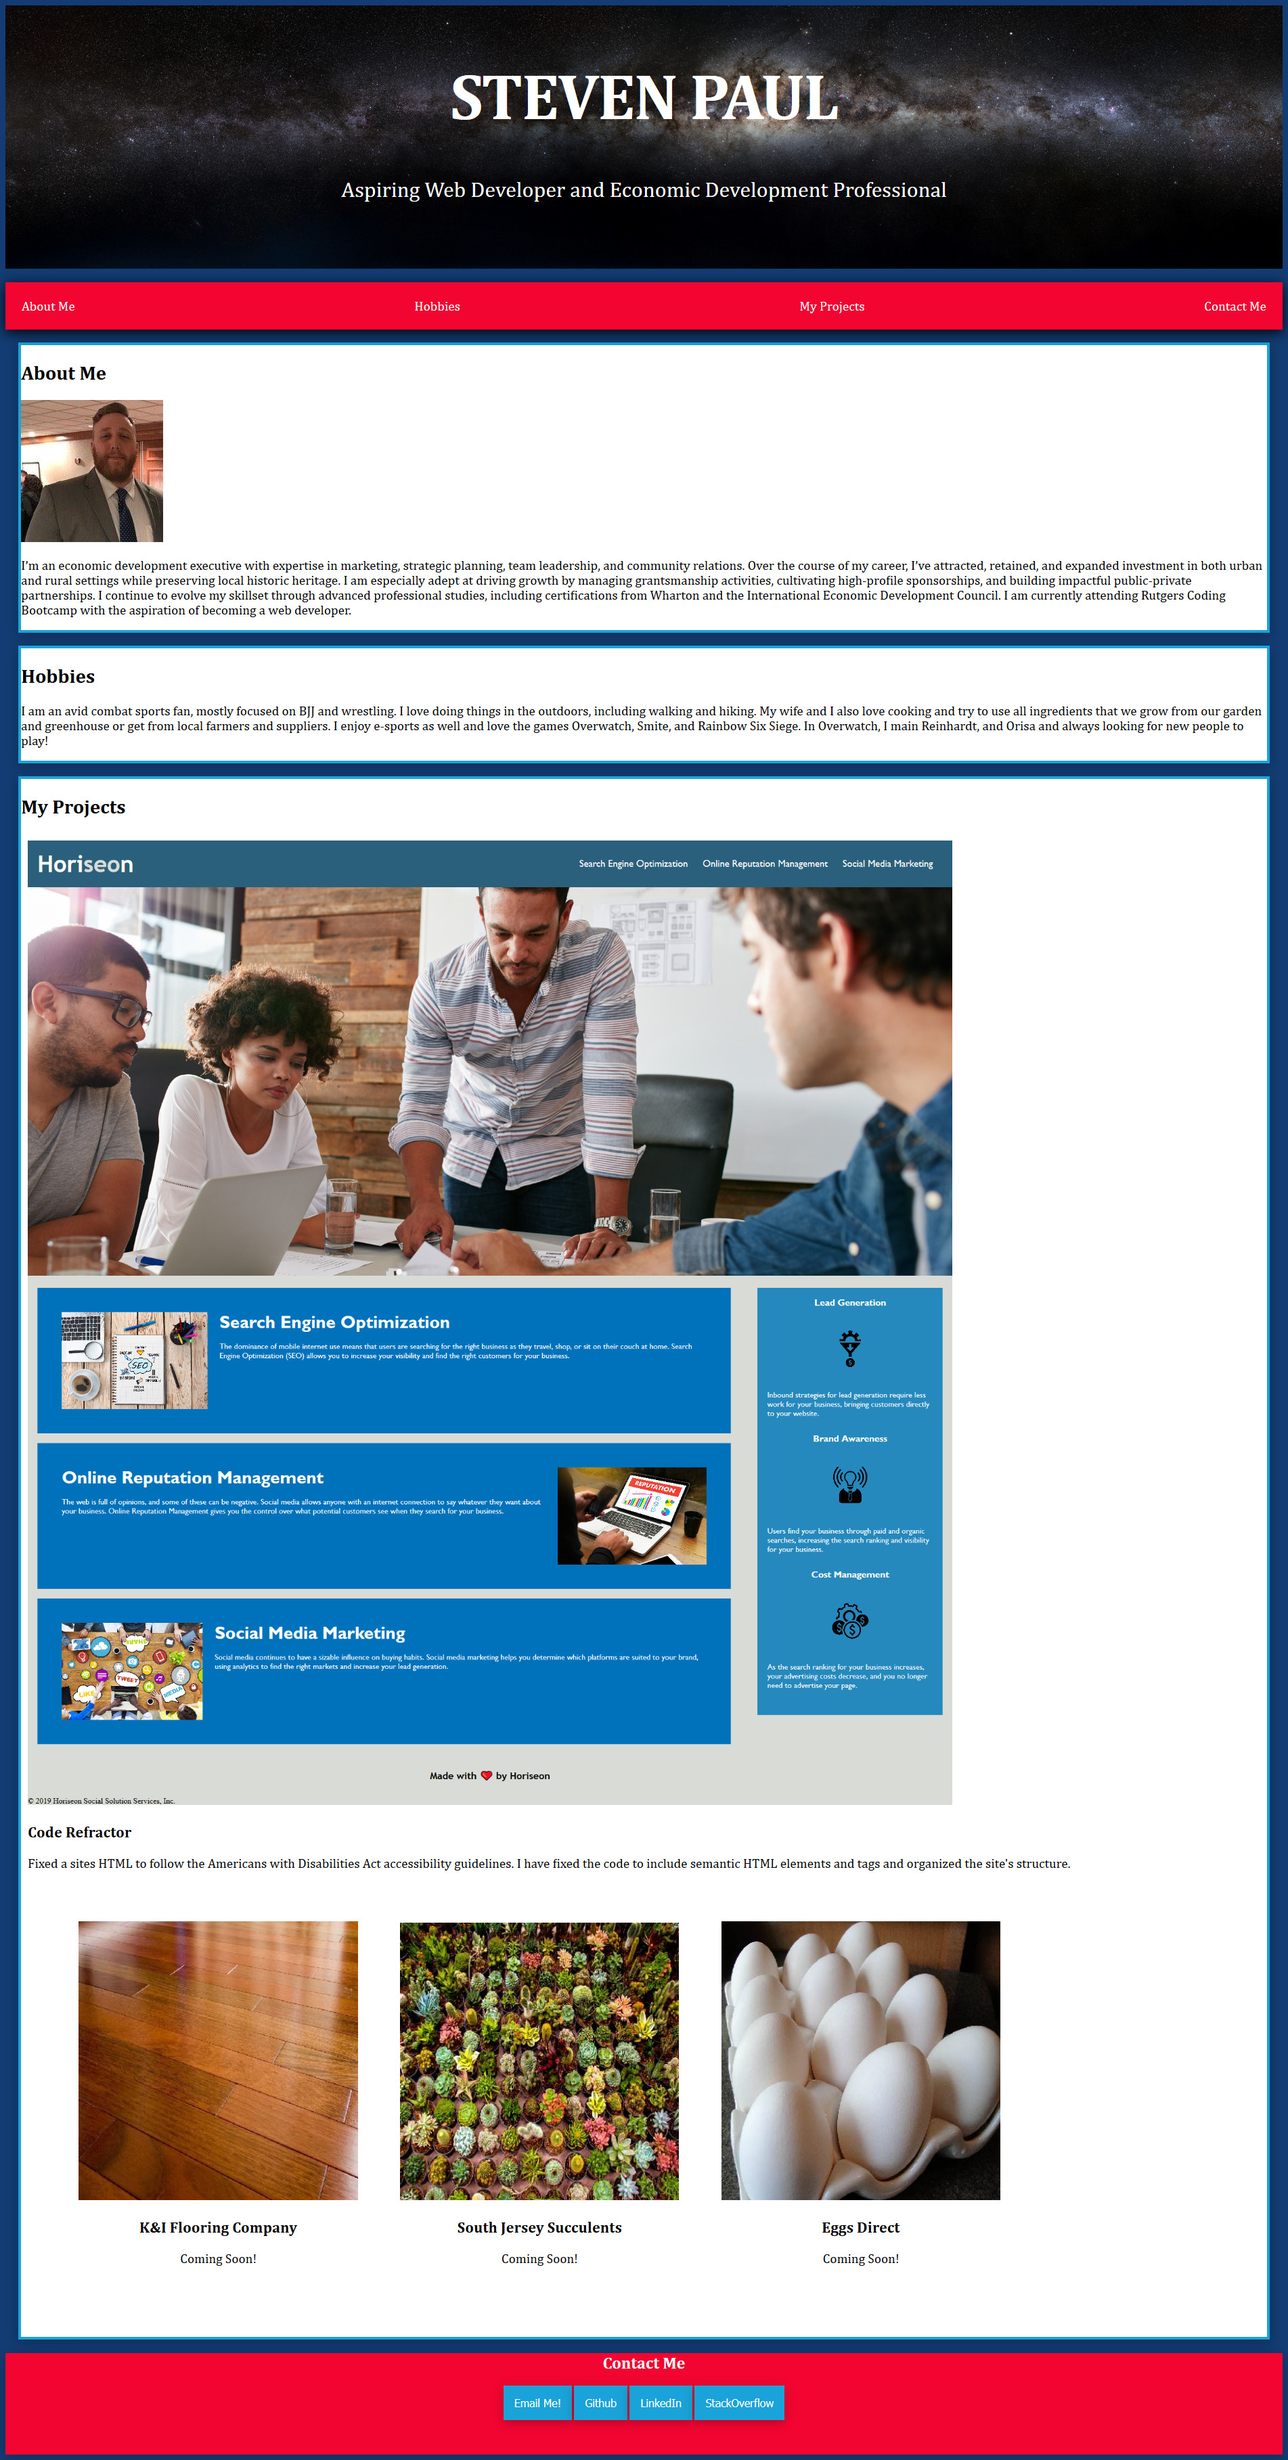
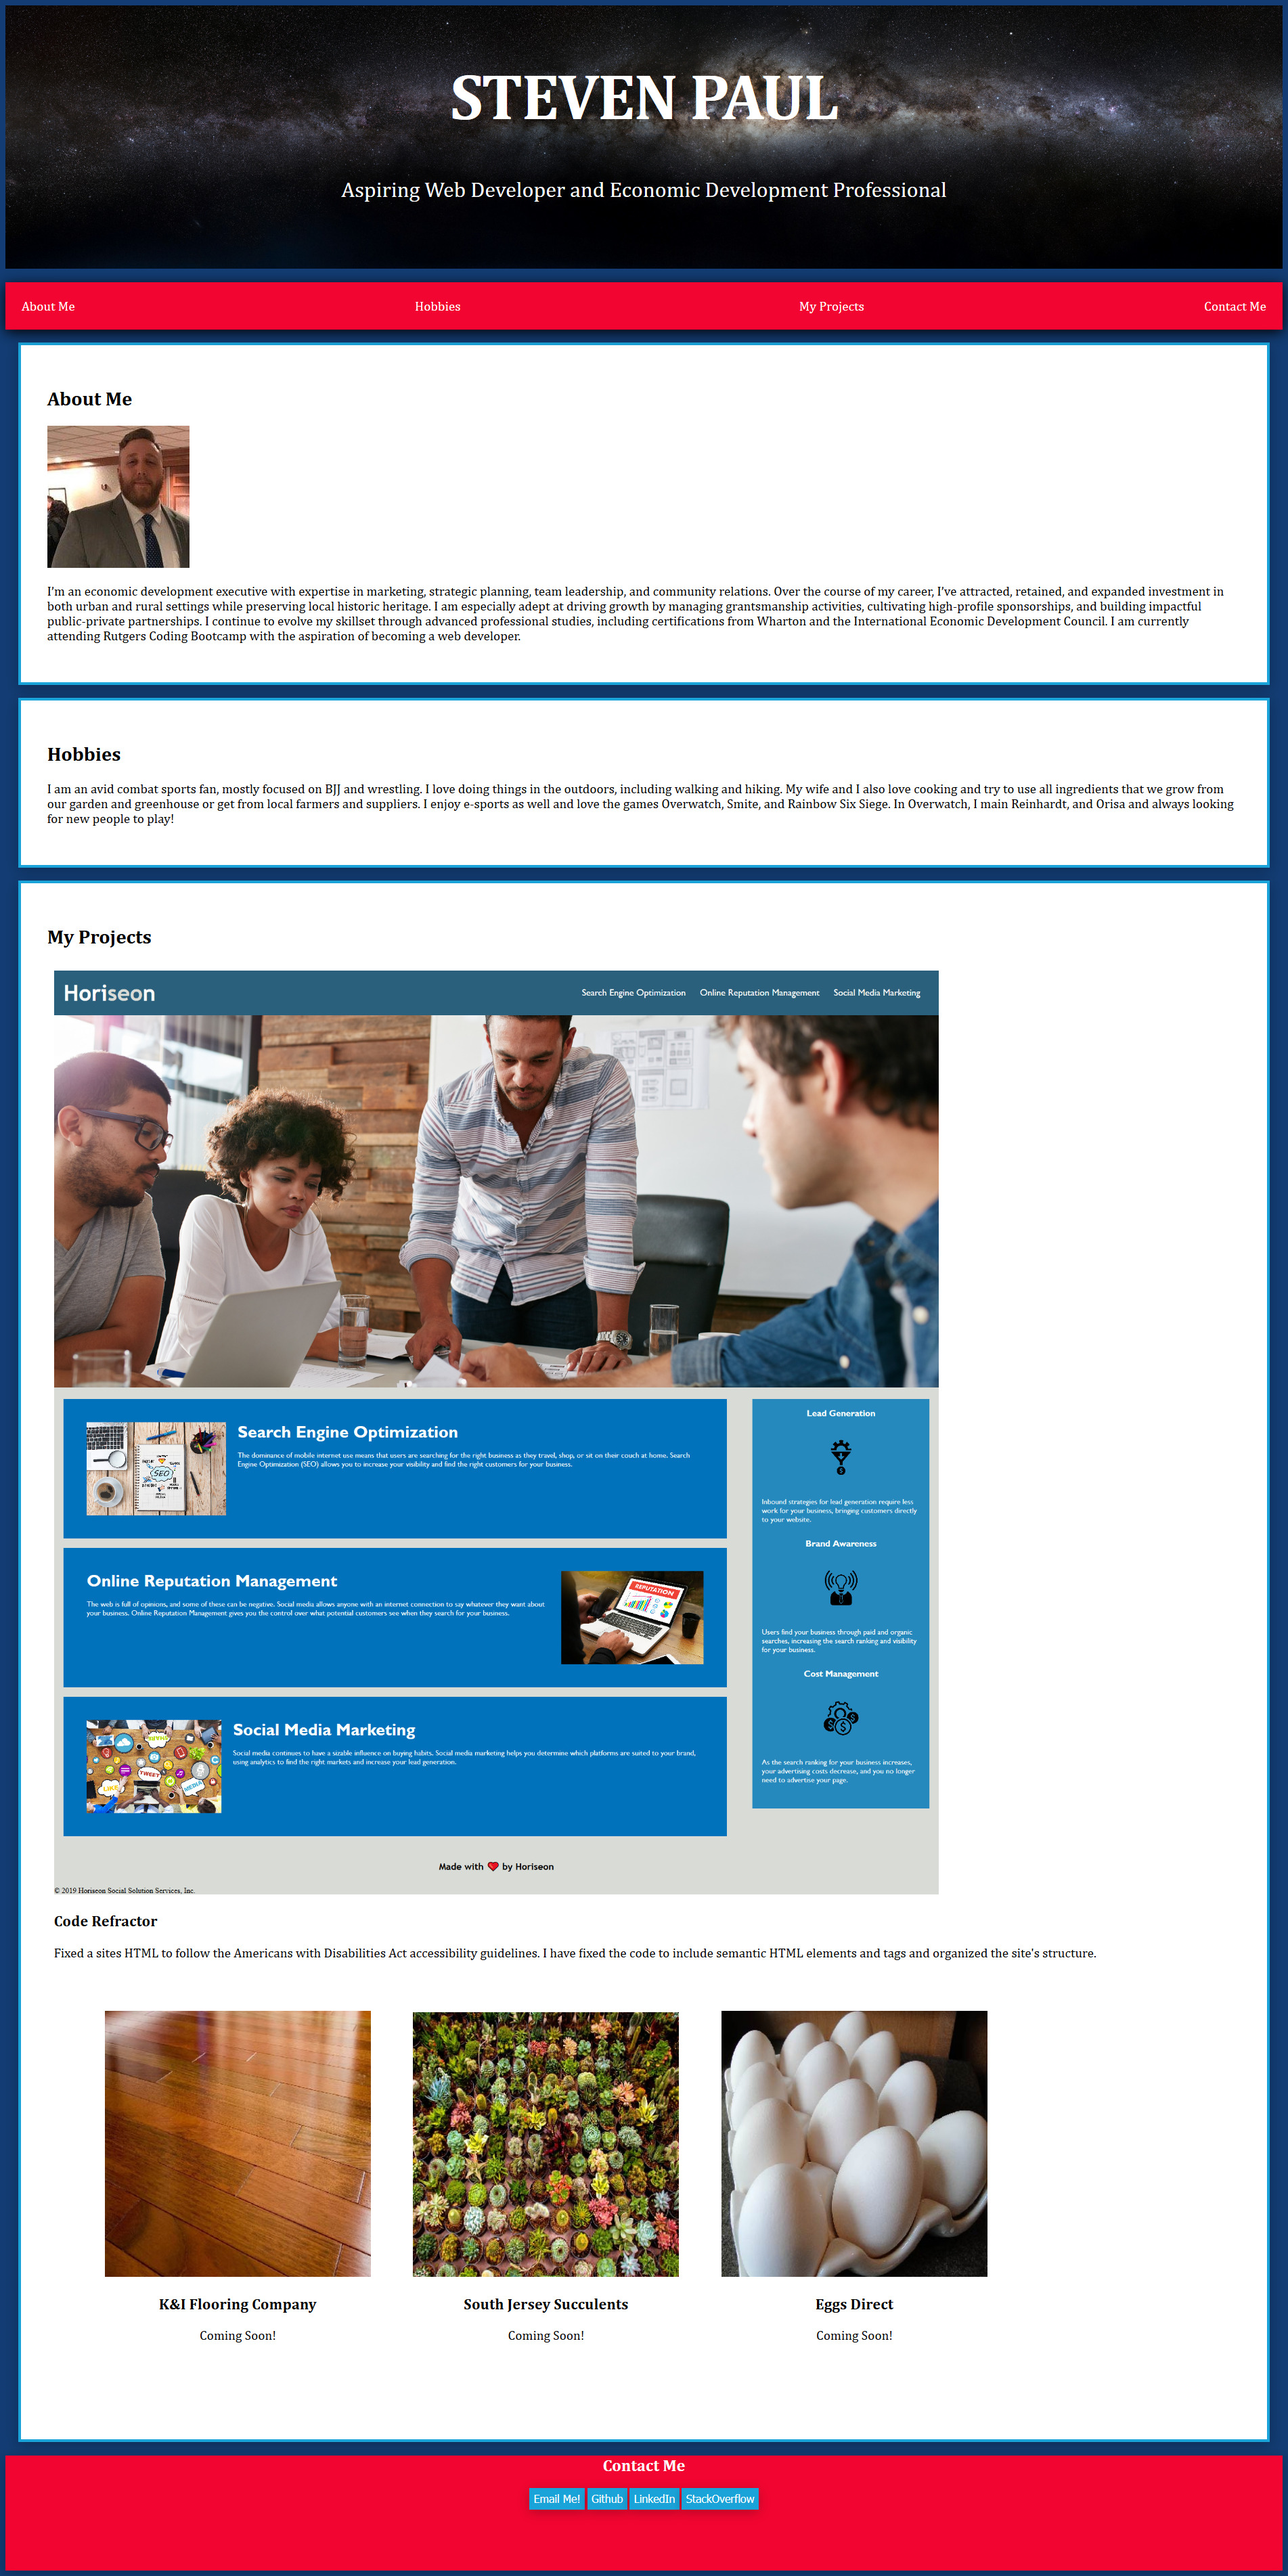
correct text margins on the border and checked responsiveness

diff --git a/index.html b/index.html
@@ -71,7 +71,7 @@
         </section>
         <!--Created buttons linked to email and social media contacts-->
     <footer class="footer" id="contact">
-        <h2>Contact Me</h2>
+        <h2 class="top">Contact Me</h2>
         <a href="mailto:sjpaul285@outlook.com"><button type="button">Email Me!</button></a>
         <a href="https://github.com/etown285"><button type="button">Github</button></a>
         <a href="https://www.linkedin.com/in/steven-paul-bb1564a2/"><button type="button">LinkedIn</button></a>

diff --git a/assets/style.css b/assets/style.css
@@ -76,7 +76,7 @@ a {
     border: .25em solid var(--lightblue);
     background-color: white;
     margin: 1em 1em 1em 1em;
-    padding:inherit;
+    padding: 2em;
     font-size: 1.2em;
     box-shadow: 0 .25em 1em 0 rgba(0, 0, 0, 0.25);
 }
@@ -164,7 +164,7 @@ button {
     align-items: center;
     justify-content: space-between;
     box-shadow: 0 .25em 1em 0 rgba(0, 0, 0, 0.25);
-    padding: 1em;
+    padding: .4em;
   }
 
   /* Adjusted Opactiy*/
